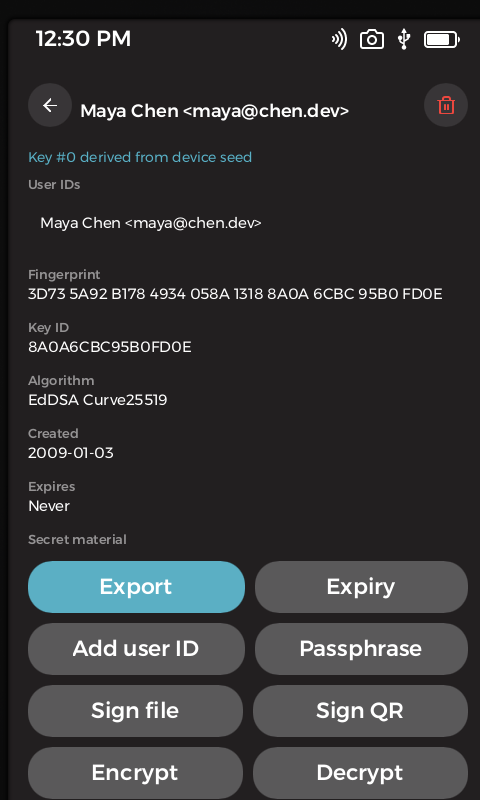
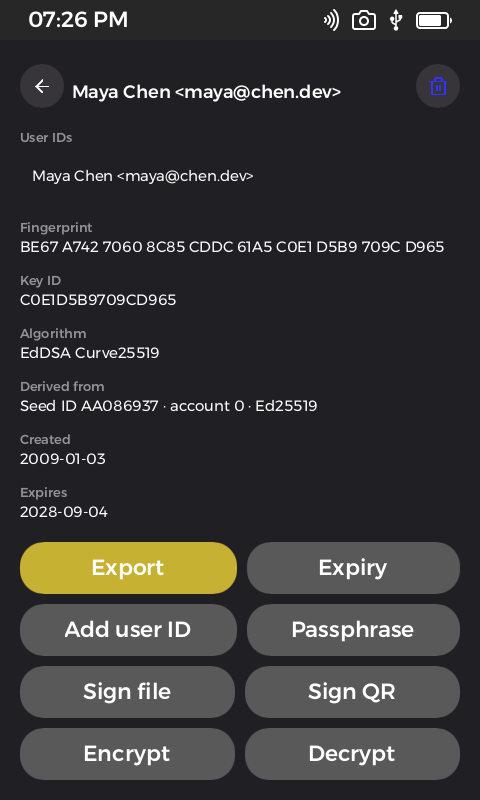
README: recapture the screenshots for the imported-seed release
keys.png (an RSA-4096 signing key beside a seed-derived Ed25519 identity),
key-detail.png (the derived key with its "Derived from" row), and a new
import-seed.png (the mnemonic being typed with a completion chip and the
live checksum, keyboard up) replace the device-seed era shots.

The "Derived from" row now sits directly under Algorithm: appended after
Secret material it was hidden under the fixed action bar, so v1.3.0 shows
it only for keys with few rows — this moves it into view.

Changed region(s): [[0.0, 0.0, 1.0, 1.0], [0.5312, 0.5, 0.6562, 0.5312], [0.8438, 0.2812, 0.9375, 0.3125]]

diff --git a/src/main.rs b/src/main.rs
@@ -1565,16 +1565,21 @@ fn set_detail(ui: &AppWindow, filename: &str, info: &KeyInfo) {
         },
     ];
     // Self-described provenance (the derived@byteapps.com notation): which
-    // imported seed and account number re-create this key.
+    // imported seed and account number re-create this key. Sits right
+    // after Algorithm so it is visible without scrolling under the
+    // action bar (the README shot shows it).
     if let Some(p) = &info.provenance {
         let alg = match p.alg {
             pgp_core::DerivedAlg::Ed25519 => "Ed25519",
             pgp_core::DerivedAlg::P521 => "P-521",
         };
-        rows.push(DetailRow {
-            label: "Derived from".into(),
-            value: format!("Seed ID {} · account {} · {}", hex_upper(&p.root_id), p.index, alg).into(),
-        });
+        rows.insert(
+            3,
+            DetailRow {
+                label: "Derived from".into(),
+                value: format!("Seed ID {} · account {} · {}", hex_upper(&p.root_id), p.index, alg).into(),
+            },
+        );
     }
     for sub in &info.subkeys {
         rows.push(DetailRow {

diff --git a/README.md b/README.md
@@ -9,7 +9,7 @@ OpenPGP Keys turns your Passport Prime into a personal certificate authority. Cr
   &nbsp;
   <img src="screenshots/key-detail.png" alt="Key detail" width="280">
   &nbsp;
-  <img src="screenshots/derive-from-seed.png" alt="Derive from seed" width="280">
+  <img src="screenshots/import-seed.png" alt="Import a seed" width="280">
 </p>
 
 ## Features
